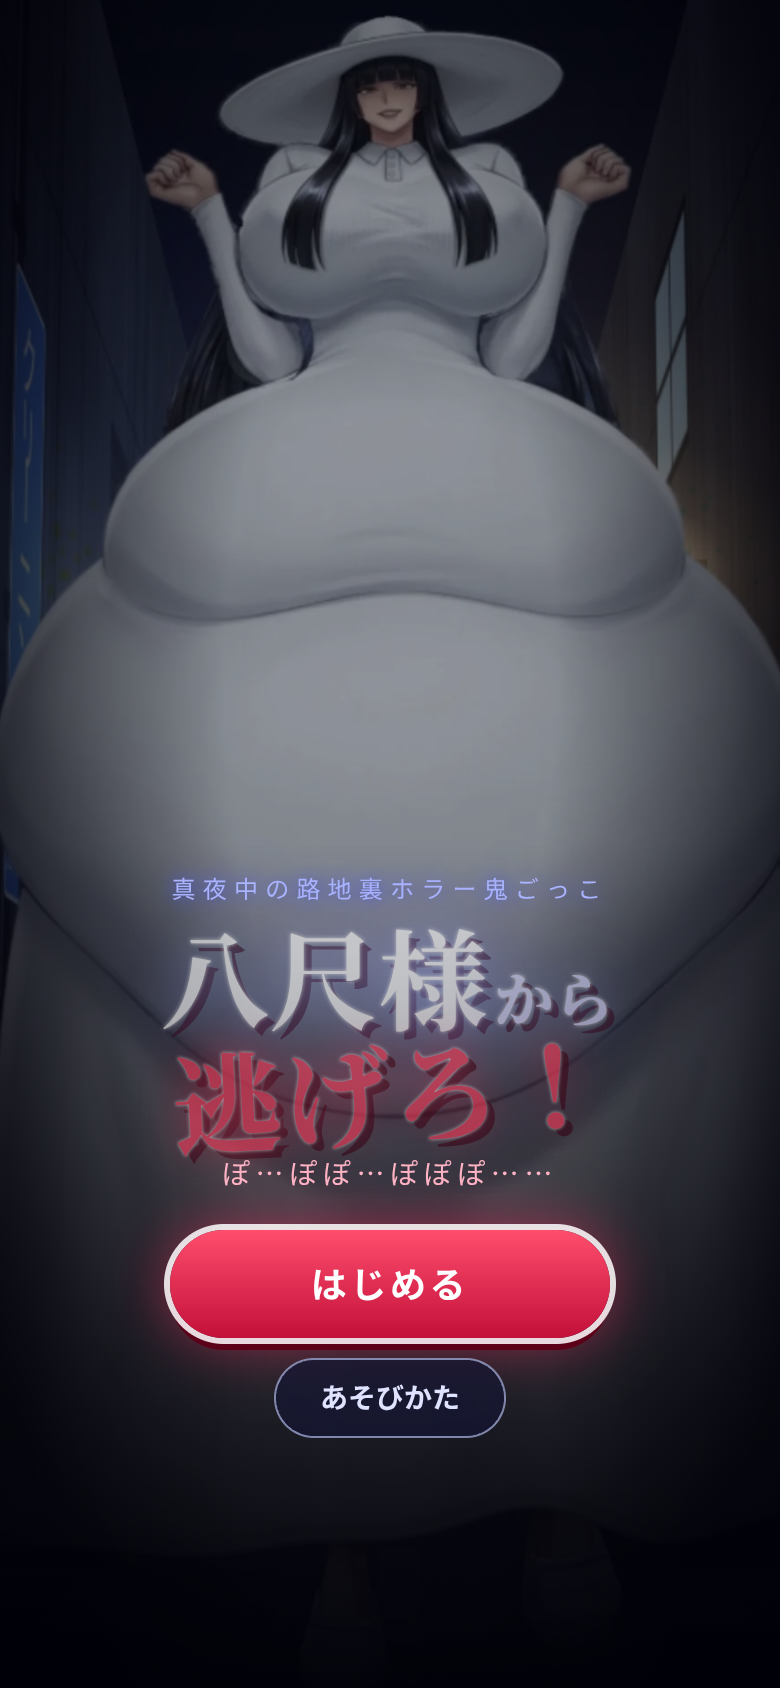
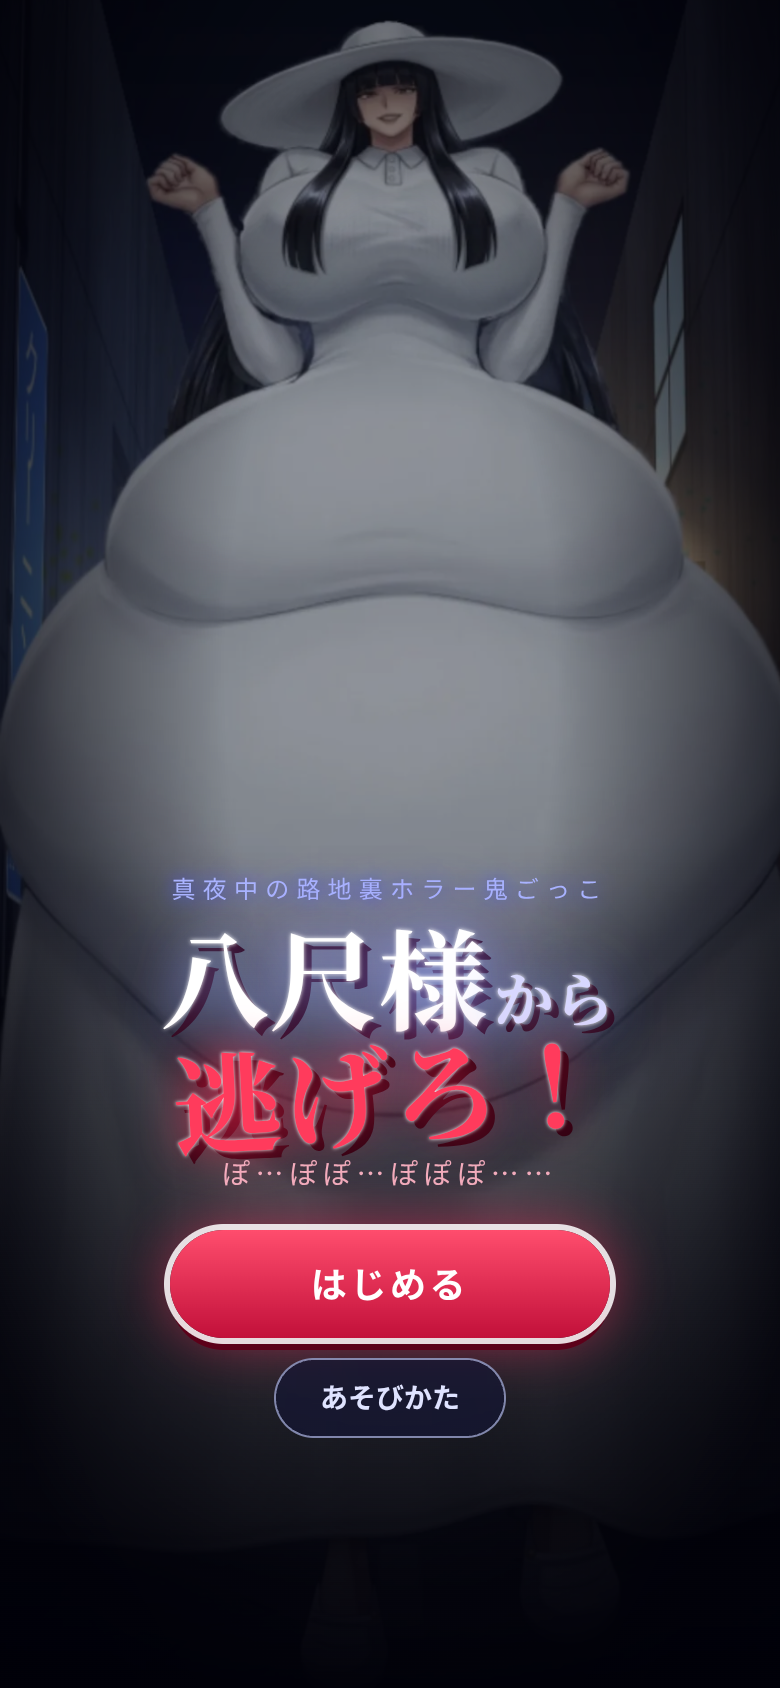
帽子と胸を揺れないように固定（変形なし・体の位置移動のみ追従）

diff --git a/hachishaku.html b/hachishaku.html
@@ -913,12 +913,16 @@ function Hachi(R,imgs,meta){
   this.m.legR=new Mesh(L.legR,3,6);
   this.m.skirt=new Mesh(L.skirt,18,14);
   this.m.belly=new Mesh(L.belly,26,26);
-  this.m.upper=new Mesh(L.upper,30,24);
+  this.m.upper=new Mesh(L.upper,62,47); // 10px cells so arm weights can avoid the hat brim exactly
   const F=meta.faces;
   this.m.face=new Mesh({x:F.x,y:F.y,w:F.w,h:F.h},30,26,{atlas:true});
   // static weights for upper body / face / hair
-  const armL=(x,y)=>{const ax=452,ay=250,bx=476,by=440;const d=((bx-ax)*(y-ay)-(by-ay)*(x-ax))/191;return ss(-10,10,d)*ss(470,415,y);};
-  const armR=(x,y)=>{const ax=768,ay=250,bx=742,by=440;const d=-((bx-ax)*(y-ay)-(by-ay)*(x-ax))/191;return ss(-10,10,d)*ss(470,415,y);};
+  // arm/bust boundary traced from the art; weight is exactly 0 on every mesh vertex touching bust pixels (10px cells)
+  const pl=(y,P)=>{if(y<=P[0][0])return P[0][1];for(let k=1;k<P.length;k++)if(y<=P[k][0]){const a=P[k-1],b=P[k];return a[1]+(b[1]-a[1])*(y-a[0])/(b[0]-a[0]);}return P[P.length-1][1];};
+  const BL=[[200,450],[250,440],[285,432],[320,436],[345,446],[370,456],[400,462],[440,472]];
+  const BR=[[200,770],[250,775],[280,779],[320,778],[345,771],[370,764],[400,760],[440,750]];
+  const armL=(x,y)=>{const bx=pl(y,BL);return ss(bx-10,bx-35,x)*ss(470,415,y)*ss(338,278,y)*Math.max(ss(190,200,y),ss(410,400,x));};
+  const armR=(x,y)=>{const bx=pl(y,BR);return ss(bx+10,bx+35,x)*ss(470,415,y)*ss(338,278,y)*Math.max(ss(170,180,y),ss(800,810,x));};
   const head=(x,y)=>ss(245,192,y)*lerp(1,ss(432,478,x)*ss(788,742,x),ss(130,180,y));
   const hat=(x,y)=>ss(196,168,y)*(1-ss(1.25,0.85,Math.pow((x-606)/66,2)+Math.pow((y-152)/58,2)));
   const hairF=(x,y)=>ss(195,330,y)*Math.max(ss(468,492,x)*ss(560,535,x),ss(655,680,x)*ss(752,728,x))*ss(360,320,y)+
@@ -1028,16 +1032,16 @@ Hachi.prototype.update=function(dt,o){
   if(mood==='glee')hr+=Math.sin(t*6)*0.07;
   if(mood==='shock')hr+=Math.sin(t*18)*0.025;
   hr+=s*0.015*wa;
-  spring(p,'headRot',hr,3,0.5,dt);
-  spring(p,'hatRot',p.headRot+(o.vx||0)*-0.00006-b.by*0.0003,1.8,0.25,dt);
+  // head & hat are kept rigid (no tilt, no brim trailing) by request
+  p.headRot=0;p.hatRot=0;
   // arms
   let al=Math.sin(t*2.1)*0.04,ar=Math.sin(t*2.1+1)*0.04;
-  if(mood==='eager'){al=Math.sin(t*9)*0.12-0.06;ar=Math.sin(t*9+Math.PI)*0.12+0.06;}
-  if(mood==='angry'){al=Math.sin(t*33)*0.05+0.12;ar=-Math.sin(t*31)*0.05-0.12;}
-  if(mood==='glee'){al=Math.sin(t*11)*0.2-0.12;ar=Math.sin(t*11)*0.2*-1+0.12;}
-  if(mood==='shock'){al=0.22;ar=-0.22;}
-  if(o.state==='windup'){al=-0.25;ar=0.25;}
-  if(o.state==='dash'){al=0.18;ar=-0.18;}
+  if(mood==='eager'){al=Math.sin(t*9)*0.09-0.04;ar=Math.sin(t*9+Math.PI)*0.09+0.04;}
+  if(mood==='angry'){al=Math.sin(t*33)*0.04+0.08;ar=-Math.sin(t*31)*0.04-0.08;}
+  if(mood==='glee'){al=Math.sin(t*11)*0.12-0.06;ar=Math.sin(t*11)*0.12*-1+0.06;}
+  if(mood==='shock'){al=0.14;ar=-0.14;}
+  if(o.state==='windup'){al=-0.15;ar=0.15;}
+  if(o.state==='dash'){al=0.12;ar=-0.12;}
   al+=c*0.06*wa;ar+=c*0.06*wa;
   spring(p,'armL',al,3.5,0.35,dt);spring(p,'armR',ar,3.5,0.35,dt);
   spring(p,'hairSway',clamp(-(o.vx||0)*0.004,-1.4,1.4)+Math.sin(t*1.3)*0.15+ s*0.25*wa - p.headRot*4,1.4,0.18,dt);
@@ -1082,15 +1086,14 @@ Hachi.prototype.defUpper=function(m,i,out){
   const p=this.p;let x=m.sx[i],y=m.sy[i];
   const W=m.w;
   // breathing (chest)
-  const wc=W.chest[i];if(wc){x+=(x-610)*p.breath*wc*0.7;y+=(y-330)*p.breath*wc;}
+  // chest/bust: rigid (no breathing / wobble deformation)
   // arms
   rot(x,y,476,446,p.armL,W.armL[i],tmp);x=tmp[0];y=tmp[1];
   rot(x,y,742,446,p.armR,W.armR[i],tmp);x=tmp[0];y=tmp[1];
   // head & hat
-  rot(x,y,607,222,p.headRot,W.head[i],tmp);x=tmp[0];y=tmp[1];
-  rot(x,y,607,120,clamp(p.hatRot-p.headRot,-0.05,0.05),W.hat[i],tmp);x=tmp[0];y=tmp[1];
+  // head/hat: rigid
   // front hair sway
-  const wh=W.hairF[i];if(wh){x+=p.hairSway*9*wh;y-=Math.abs(p.hairSway)*1.5*wh;}
+  // front hair strands lie on top of the bust in the same layer, so they are not warped (keeps chest rigid)
   const u=this.uScale();
   out[0]=610+(x-610)*u;out[1]=470+(y-470)*u;
 };

diff --git a/src/hachi.js b/src/hachi.js
@@ -69,12 +69,16 @@ function Hachi(R,imgs,meta){
   this.m.legR=new Mesh(L.legR,3,6);
   this.m.skirt=new Mesh(L.skirt,18,14);
   this.m.belly=new Mesh(L.belly,26,26);
-  this.m.upper=new Mesh(L.upper,30,24);
+  this.m.upper=new Mesh(L.upper,62,47); // 10px cells so arm weights can avoid the hat brim exactly
   const F=meta.faces;
   this.m.face=new Mesh({x:F.x,y:F.y,w:F.w,h:F.h},30,26,{atlas:true});
   // static weights for upper body / face / hair
-  const armL=(x,y)=>{const ax=452,ay=250,bx=476,by=440;const d=((bx-ax)*(y-ay)-(by-ay)*(x-ax))/191;return ss(-10,10,d)*ss(470,415,y);};
-  const armR=(x,y)=>{const ax=768,ay=250,bx=742,by=440;const d=-((bx-ax)*(y-ay)-(by-ay)*(x-ax))/191;return ss(-10,10,d)*ss(470,415,y);};
+  // arm/bust boundary traced from the art; weight is exactly 0 on every mesh vertex touching bust pixels (10px cells)
+  const pl=(y,P)=>{if(y<=P[0][0])return P[0][1];for(let k=1;k<P.length;k++)if(y<=P[k][0]){const a=P[k-1],b=P[k];return a[1]+(b[1]-a[1])*(y-a[0])/(b[0]-a[0]);}return P[P.length-1][1];};
+  const BL=[[200,450],[250,440],[285,432],[320,436],[345,446],[370,456],[400,462],[440,472]];
+  const BR=[[200,770],[250,775],[280,779],[320,778],[345,771],[370,764],[400,760],[440,750]];
+  const armL=(x,y)=>{const bx=pl(y,BL);return ss(bx-10,bx-35,x)*ss(470,415,y)*ss(338,278,y)*Math.max(ss(190,200,y),ss(410,400,x));};
+  const armR=(x,y)=>{const bx=pl(y,BR);return ss(bx+10,bx+35,x)*ss(470,415,y)*ss(338,278,y)*Math.max(ss(170,180,y),ss(800,810,x));};
   const head=(x,y)=>ss(245,192,y)*lerp(1,ss(432,478,x)*ss(788,742,x),ss(130,180,y));
   const hat=(x,y)=>ss(196,168,y)*(1-ss(1.25,0.85,Math.pow((x-606)/66,2)+Math.pow((y-152)/58,2)));
   const hairF=(x,y)=>ss(195,330,y)*Math.max(ss(468,492,x)*ss(560,535,x),ss(655,680,x)*ss(752,728,x))*ss(360,320,y)+
@@ -184,16 +188,16 @@ Hachi.prototype.update=function(dt,o){
   if(mood==='glee')hr+=Math.sin(t*6)*0.07;
   if(mood==='shock')hr+=Math.sin(t*18)*0.025;
   hr+=s*0.015*wa;
-  spring(p,'headRot',hr,3,0.5,dt);
-  spring(p,'hatRot',p.headRot+(o.vx||0)*-0.00006-b.by*0.0003,1.8,0.25,dt);
+  // head & hat are kept rigid (no tilt, no brim trailing) by request
+  p.headRot=0;p.hatRot=0;
   // arms
   let al=Math.sin(t*2.1)*0.04,ar=Math.sin(t*2.1+1)*0.04;
-  if(mood==='eager'){al=Math.sin(t*9)*0.12-0.06;ar=Math.sin(t*9+Math.PI)*0.12+0.06;}
-  if(mood==='angry'){al=Math.sin(t*33)*0.05+0.12;ar=-Math.sin(t*31)*0.05-0.12;}
-  if(mood==='glee'){al=Math.sin(t*11)*0.2-0.12;ar=Math.sin(t*11)*0.2*-1+0.12;}
-  if(mood==='shock'){al=0.22;ar=-0.22;}
-  if(o.state==='windup'){al=-0.25;ar=0.25;}
-  if(o.state==='dash'){al=0.18;ar=-0.18;}
+  if(mood==='eager'){al=Math.sin(t*9)*0.09-0.04;ar=Math.sin(t*9+Math.PI)*0.09+0.04;}
+  if(mood==='angry'){al=Math.sin(t*33)*0.04+0.08;ar=-Math.sin(t*31)*0.04-0.08;}
+  if(mood==='glee'){al=Math.sin(t*11)*0.12-0.06;ar=Math.sin(t*11)*0.12*-1+0.06;}
+  if(mood==='shock'){al=0.14;ar=-0.14;}
+  if(o.state==='windup'){al=-0.15;ar=0.15;}
+  if(o.state==='dash'){al=0.12;ar=-0.12;}
   al+=c*0.06*wa;ar+=c*0.06*wa;
   spring(p,'armL',al,3.5,0.35,dt);spring(p,'armR',ar,3.5,0.35,dt);
   spring(p,'hairSway',clamp(-(o.vx||0)*0.004,-1.4,1.4)+Math.sin(t*1.3)*0.15+ s*0.25*wa - p.headRot*4,1.4,0.18,dt);
@@ -238,15 +242,14 @@ Hachi.prototype.defUpper=function(m,i,out){
   const p=this.p;let x=m.sx[i],y=m.sy[i];
   const W=m.w;
   // breathing (chest)
-  const wc=W.chest[i];if(wc){x+=(x-610)*p.breath*wc*0.7;y+=(y-330)*p.breath*wc;}
+  // chest/bust: rigid (no breathing / wobble deformation)
   // arms
   rot(x,y,476,446,p.armL,W.armL[i],tmp);x=tmp[0];y=tmp[1];
   rot(x,y,742,446,p.armR,W.armR[i],tmp);x=tmp[0];y=tmp[1];
   // head & hat
-  rot(x,y,607,222,p.headRot,W.head[i],tmp);x=tmp[0];y=tmp[1];
-  rot(x,y,607,120,clamp(p.hatRot-p.headRot,-0.05,0.05),W.hat[i],tmp);x=tmp[0];y=tmp[1];
+  // head/hat: rigid
   // front hair sway
-  const wh=W.hairF[i];if(wh){x+=p.hairSway*9*wh;y-=Math.abs(p.hairSway)*1.5*wh;}
+  // front hair strands lie on top of the bust in the same layer, so they are not warped (keeps chest rigid)
   const u=this.uScale();
   out[0]=610+(x-610)*u;out[1]=470+(y-470)*u;
 };
